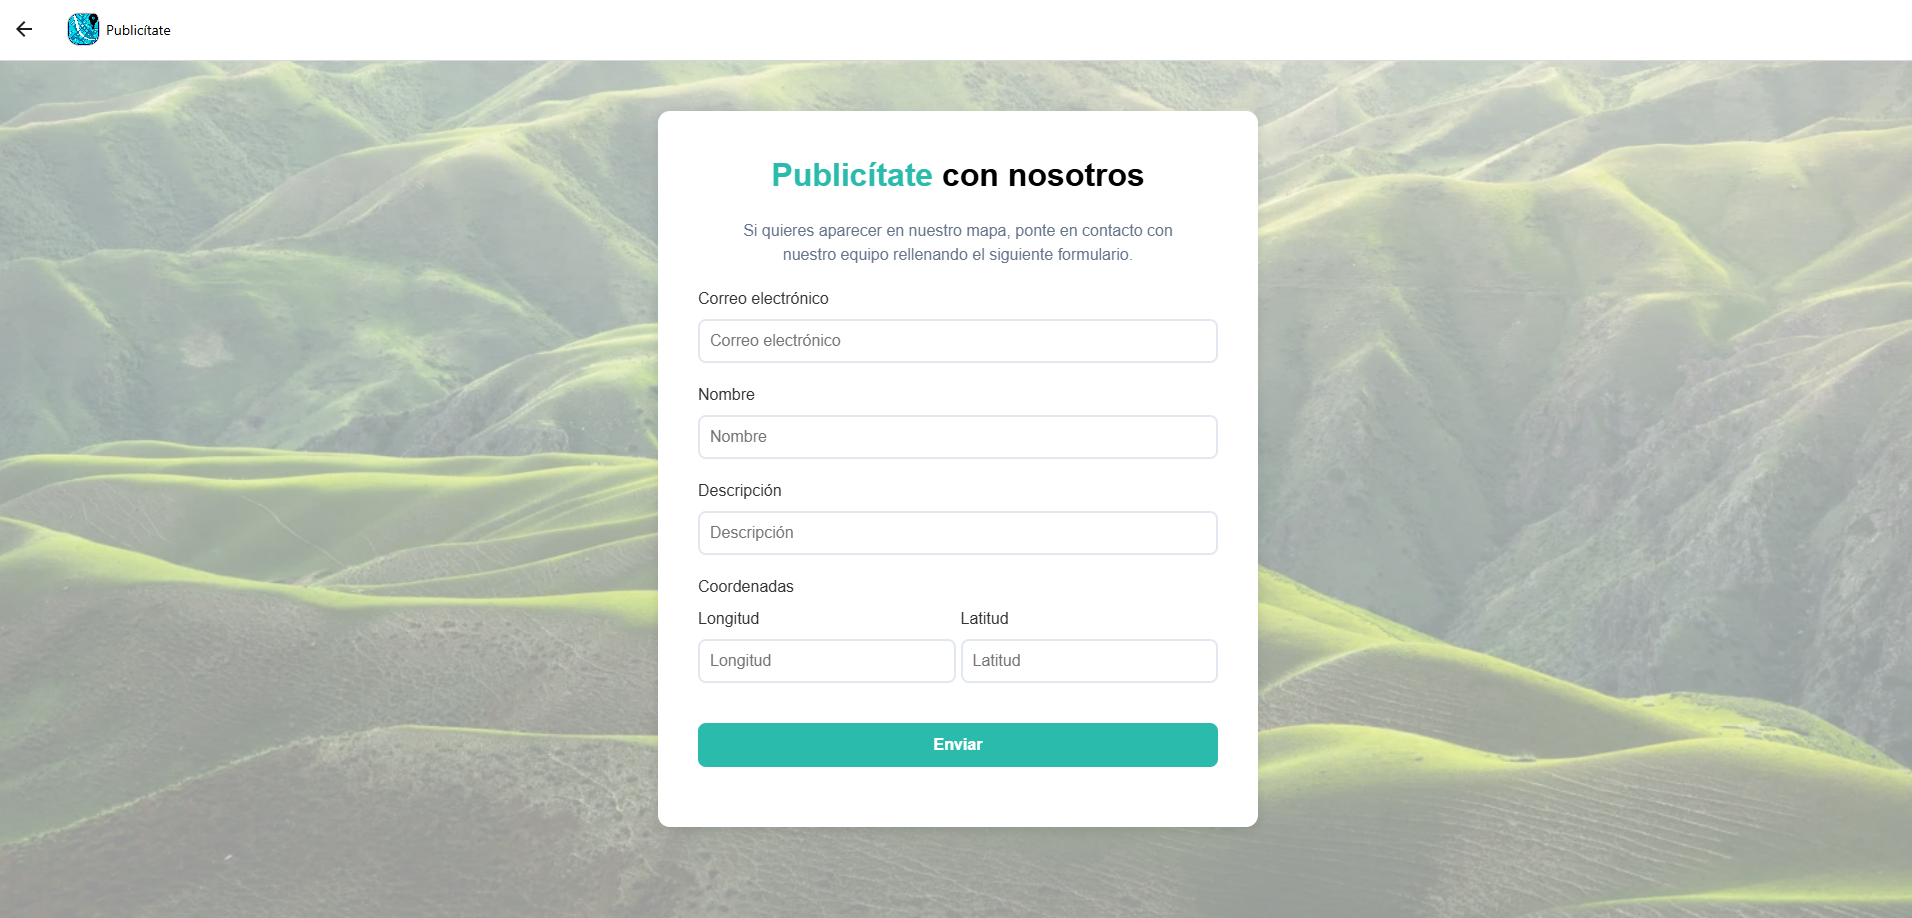
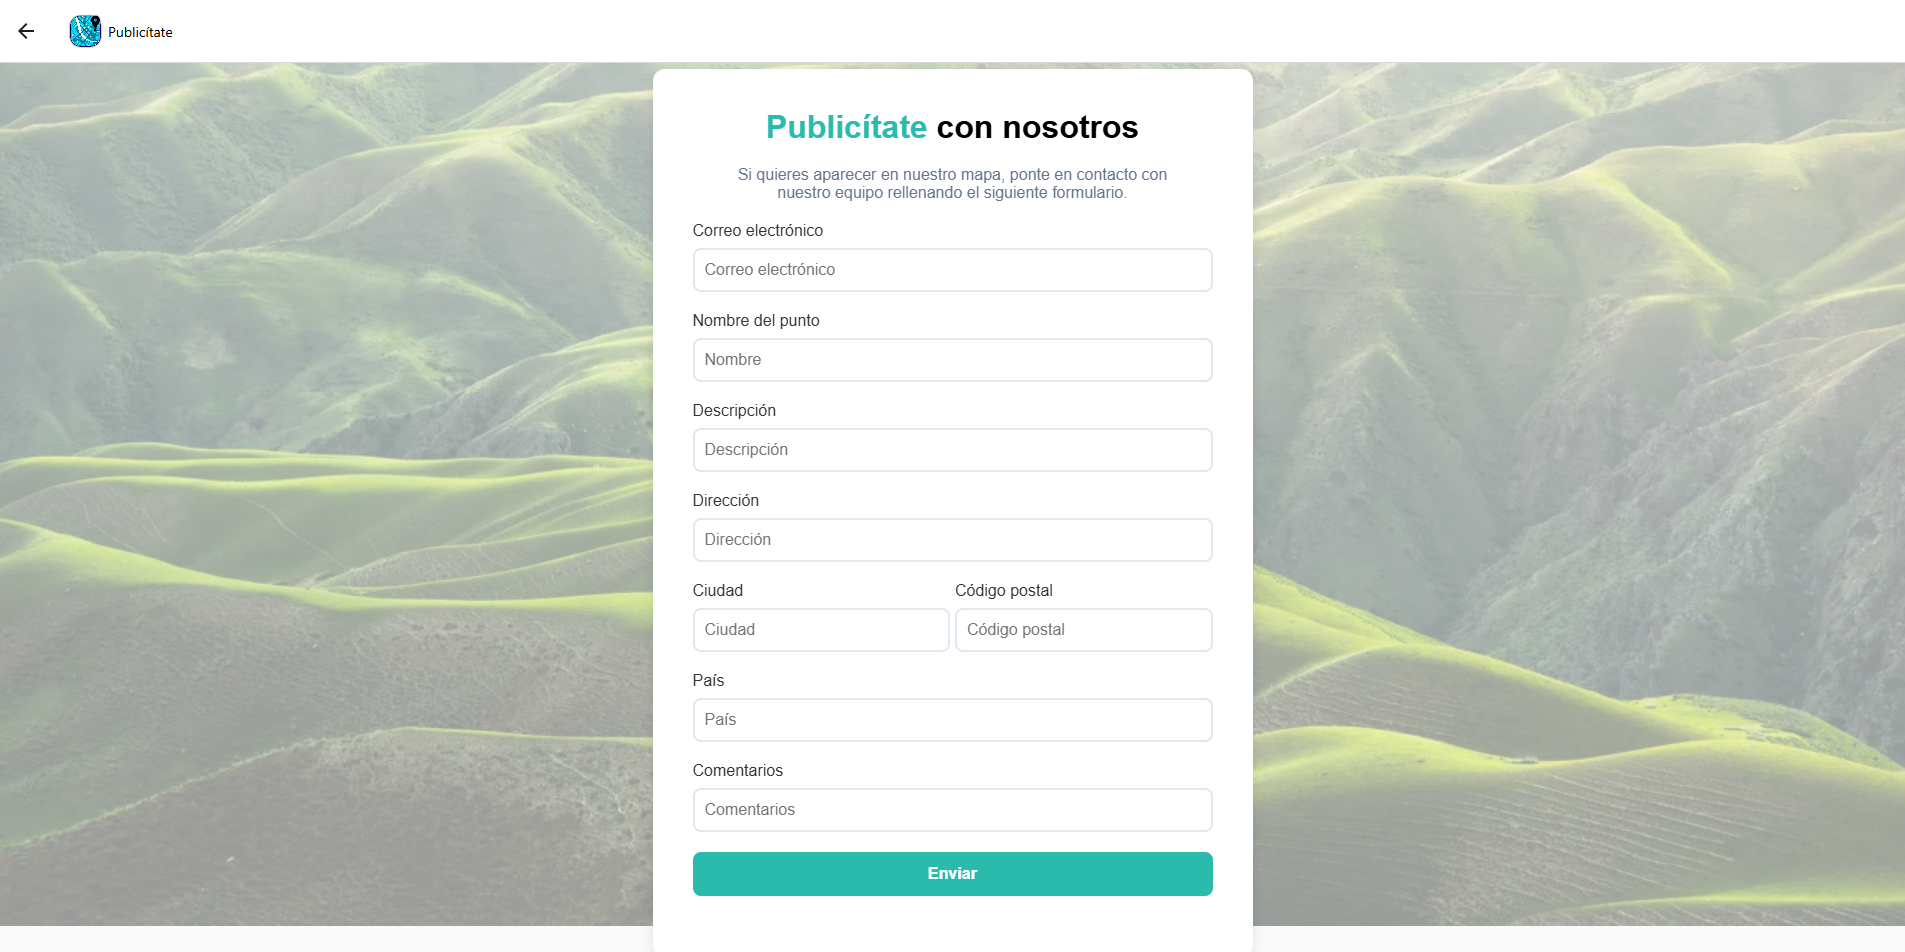
docs: actualizado 7-revision.md con las nuevas funcionalidades y cambios implementados

diff --git a/Documentación/Sprint-3(S3)/7-revision.md b/Documentación/Sprint-3(S3)/7-revision.md
@@ -19,7 +19,7 @@
 </p>
 
 <p align="center">
-    27/03/2025
+    09/04/2025
 </p>
 
 ---
@@ -27,7 +27,7 @@
 
 | VERSIÓN | FECHA     | COMENTARIOS              | AUTOR              |
 |---------|-----------|--------------------------|--------------------|
-| V1      | 27/03/2025| Primera versión          | Ángel Neria Acal y José María Baquero Rodríguez     |
+| V1      | 09/04/2025| Primera versión          | Ángel Neria Acal y José María Baquero Rodríguez     |
 
 
 ---
@@ -37,14 +37,14 @@
 ### 1.1. No Matchmaking
 
 
-- **(Mejora) Bienvenida**:  
+- **Bienvenida**:  
   El usuario tiene la opción de iniciar sesión con una cuenta existente o registrarse en el sistema con una nueva cuenta. También se peude realizar una gestión del usu de cookies.
   ![Registro](./Images/bienvenidaWeb.png)
   *(Caso de uso implementado en #S2)*
 
 
 - **(Mejora) Registro**:  
-  El usuario se registra en el sistema proporcionando su nombre, correo electrónico y contraseña a través de un formulario. Para completar el registro es necesario que el nuevo usuario lea y acepte los términos y condiciones de uso.
+  El usuario se registra en el sistema proporcionando su nombre, correo electrónico y contraseña a través de un formulario. Para completar el registro es necesario que el nuevo usuario lea y acepte los términos y condiciones de uso. Como mejora el usuario puede añadir una imagen de perfil.
   ![Registro](./Images/registroWeb.png)
  *(Caso de uso implementado en #S2)*
   ![Registro](./Images/terminosCondiciones.png)
@@ -55,7 +55,7 @@
   ![Login](./Images/LoginWeb.png)
   *(Caso de uso implementado en #S2)*
 
-- **(Mejora) Exploración de zonas no descubiertas**:  
+- **Exploración de zonas no descubiertas**:  
   El usuario se desplaza físicamente hacia la zona que quiere descubrir. Al llegar a la ubicación, el sistema detecta su presencia y automáticamente desbloquea la localización en su mapa personal pintandola de color verde. La posición actual del usuario se indica con un marcador en el mapa.
   ![MapaPersonal](./Images/MapaPersonalWeb.png)
   *(Caso de uso implementado en #S1)*
@@ -63,25 +63,54 @@
   *(Caso de uso implementado en #S1)*
 
 - **Registro de puntos de interés**:  
-  El usuario selecciona una zona del mapa desbloqueada en la que desea añadir un punto de interés. Al tocar la ubicación, se muestra una ventana emergente con un formulario donde debe añadir un nombre y una descripción, una categoría, que es opcional y fotografías, también opcionales. Una vez completado el proceso, el punto de interés queda registrado y aparece en el mapa interactivo con un marcador.
+  El usuario selecciona una zona del mapa desbloqueada en la que desea añadir un punto de interés. Al tocar la ubicación, se muestra una ventana emergente con un formulario donde debe añadir un nombre y una descripción, una categoría, que es opcional y fotografías, también opcionales. Una vez completado el proceso, el punto de interés queda registrado y aparece en el mapa interactivo con un marcador. Como mejora se ha adaptado el estilo del fromulario al estilo general de la web.
   ![POIFormulario](./Images/POIFormularioWeb.png)
   *(Caso de uso implementado en #S1)*
 
+  Además se ha mejorado el estilo de los puntos de interés creados, siendo más descriptivos con la categoría que tiene asociada.
   ![VerPOI](./Images/verPOIWeb.png)
   *(Caso de uso implementado en #S1)*
 
-- **(Nuevo) Suscripción**:
-  El usuario puede acceder a la pantalla de suscripción a Premium desde la opción "Suscripción" en el menú desplegable ubicado en la esquina superior derecha.
-   ![suscripcion](./Images/menuWeb.png)
+- **(Mejora) Suscripción**:
+  El usuario puede acceder a la pantalla de suscripción a Premium desde la opción "Hazte Premium" situado en la esquina superior derecha.
+   ![suscripcion](./Images/botonPremiumWeb.png)
   *(Caso de uso implementado en #S2)* 
-   Al entrar, visualizará información sobre los beneficios de ser Premium y un botón "Pagar con Stripe", que le permitirá iniciar el proceso de pago. Al pulsarlo, aparecerá la pasarela de pago de Stripe, donde deberá ingresar sus datos y confirmar la transacción. Una vez completado el pago con éxito, el sistema actualizará su estado a Premium y lollevará a su mapa. 
-   ![suscripcion](./Images/suscripcionNormalWeb.png)
+   
+   Al entrar, visualizará información sobre los beneficios de ser Premium y un botón "Pagar con Stripe", que le permitirá iniciar el proceso de pago. Al pulsarlo, aparecerá la pasarela de pago de Stripe, donde deberá ingresar sus datos y confirmar la transacción.  
+   ![suscripcion](./Images/suscripcionNormal2Web.png)
   *(Caso de uso implementado en #S2)* 
+
+  Una vez completado el pago con éxito, el sistema actualizará su estado a Premium y lo llevará a su mapa.
+  ![suscripcion](./Images/mapaPremium.png)
+  *(Caso de uso implementado en #S2)*
 
   
   Si el usuario vuelve a entrar en la sección de "Suscripción" se le indica que ya es miembro Premium y se muestra un botón "Ir a mi mapa", que le permitirá acceder a sus mapas y disfrutar de las ventajas exclusivas de los miembros Premium.
-   ![suscripcion](./Images/suscripcionPremiumlWeb.png)
-  *(Caso de uso implementado en #S2)* 
+   ![suscripcion](./Images/suscripcionPremiumWeb.png)
+  *(Caso de uso implementado en #S2)*
+
+- **(Nuevo) Estadísticas**:
+  El usuario puede acceder a la pantalla de estadísticas pulsando en "Estadísticas" en el menú desplegable de la esquina superior derecha.
+  En esta pantalla se mustra una tabla con el total de logros alcanzados, el núemro de amigos actuales del usuario, el total de puntos de interés que ha registrado el usuario entre todos los mapas a los que pertenece, el total de distritos desbloqueados y el número de mapas colaborativos a los que se ha unido.
+   ![estadisticas](./Images/estadisticasWeb.png)
+  *(Caso de uso implementado en #S3)*
+
+- **(Nuevo) Logros**:
+  El usuario puede acceder a la pantalla de logros pulsando en "Estadísticas" en el menú desplegable de la esquina superior derecha.
+  En esta pantalla se muestran dos secciones, "Logros obtenidos", "Todos los logros" y la opcion de crear sus propios logros. Mecionar que la posibilidad de crear logros es exclusiva para los usuarios premium.
+    En la sección de "Logros obtenidos" se muestran listados los logros que el usuario ha desbloqueado.
+
+   ![logros](./Images/logrosObtenidosWeb.png)
+  *(Caso de uso implementado en #S3)*
+
+  En la sección de "Todos los logros" se muestran listados todos los logros disponibles para desbloquear junto con uan descripción de cómo se desbloquea cada logro.
+   ![logros](./Images/todosLogrosWeb.png)
+  *(Caso de uso implementado en #S3)*
+
+  Si el usuario crea un nuevo logro pulsando sobre el boton "+" en la parte superior derecha, se muestra un formulario donde debe indicar el nombre del logro, una descripción, los puntos de ese nuevo logro y la url para la imagen de logo que tendrá el logro creado.
+  ![logros](./Images/crearLogrosWeb.png)
+  *(Caso de uso implementado en #S3)*
+
 
 
 ### 1.2. Matchmaking
@@ -94,12 +123,12 @@
 
 
 
-- **(Nuevo) Publicidad de empresas**:  
-  Las empresas que quieran aparecer en los mapas como puntos de interés tienen disponible la opción de "Publicítate con nosotros". Para ello solo deben rellenar un formulario con nombre, correo de contacto, descripción del local o empresa a publicitar y las coordenadas donde se ubica el mismo. Este formulario se envía por correo a la cuenta corporativa de MapYourworld para que los adminitradores del sistema puedan añadirlo.
+- **(Mejora) Publicidad de empresas**:  
+  Las empresas que quieran aparecer en los mapas como puntos de interés tienen disponible la opción de "Publicítate con nosotros". Para ello solo deben rellenar un formulario con nombre, correo de contacto, descripción del local o empresa a publicitar y las coordenadas donde se ubica el mismo. Este formulario se envía por correo a la cuenta corporativa de MapYourworld para que los adminitradores del sistema puedan añadirlo. Se ha mejorado el formulario.
   ![Registro](./Images/publicidadWeb.png)
   *(Caso de uso implementado en #S2)*
 
-- **(Nuevo) Social:**
+- **(Mejora) Social:**
   El usuario puede acceder al apartado de Social desde el menú desplegable en la esquina superior derecha. 
  ![suscripcion](./Images/menuWeb.png)
   *(Caso de uso implementado en #S2)* 
@@ -134,7 +163,7 @@
   ![collab](./Images/verMapaColabWeb.png)
   *(Caso de uso implementado en #S2)*
 
-  Si desde dentro de un mapa colaborativo el usuario pulsa el boton de "Invitar Amigos" situado en la parte inferior de la pantalla, se muestra un listado de los amigos del usuario y junto a cada uno de los amigos la opción "Invitar" que le enviará una invitación a ese amigo al mapa actual desde el que se envía. 
+  Si desde dentro de un mapa colaborativo el usuario pulsa el boton de "Invitar Amigos" situado en la parte inferior de la pantalla, se muestra un listado de los amigos del usuario y junto a cada uno de los amigos la opción "Invitar" que le enviará una invitación a ese amigo al mapa actual desde el que se envía. Se ha mejorado el formulario para invitar amigos, ahora se listan solo los amigos que no forman parte de ese mapa.
   ![collab](./Images/invitarMapaColabWeb.png)
   *(Caso de uso implementado en #S2)*
   Esta solicitud le aparecerá al usuario amigo en la sección de social en el apartado de Solicitudes.
